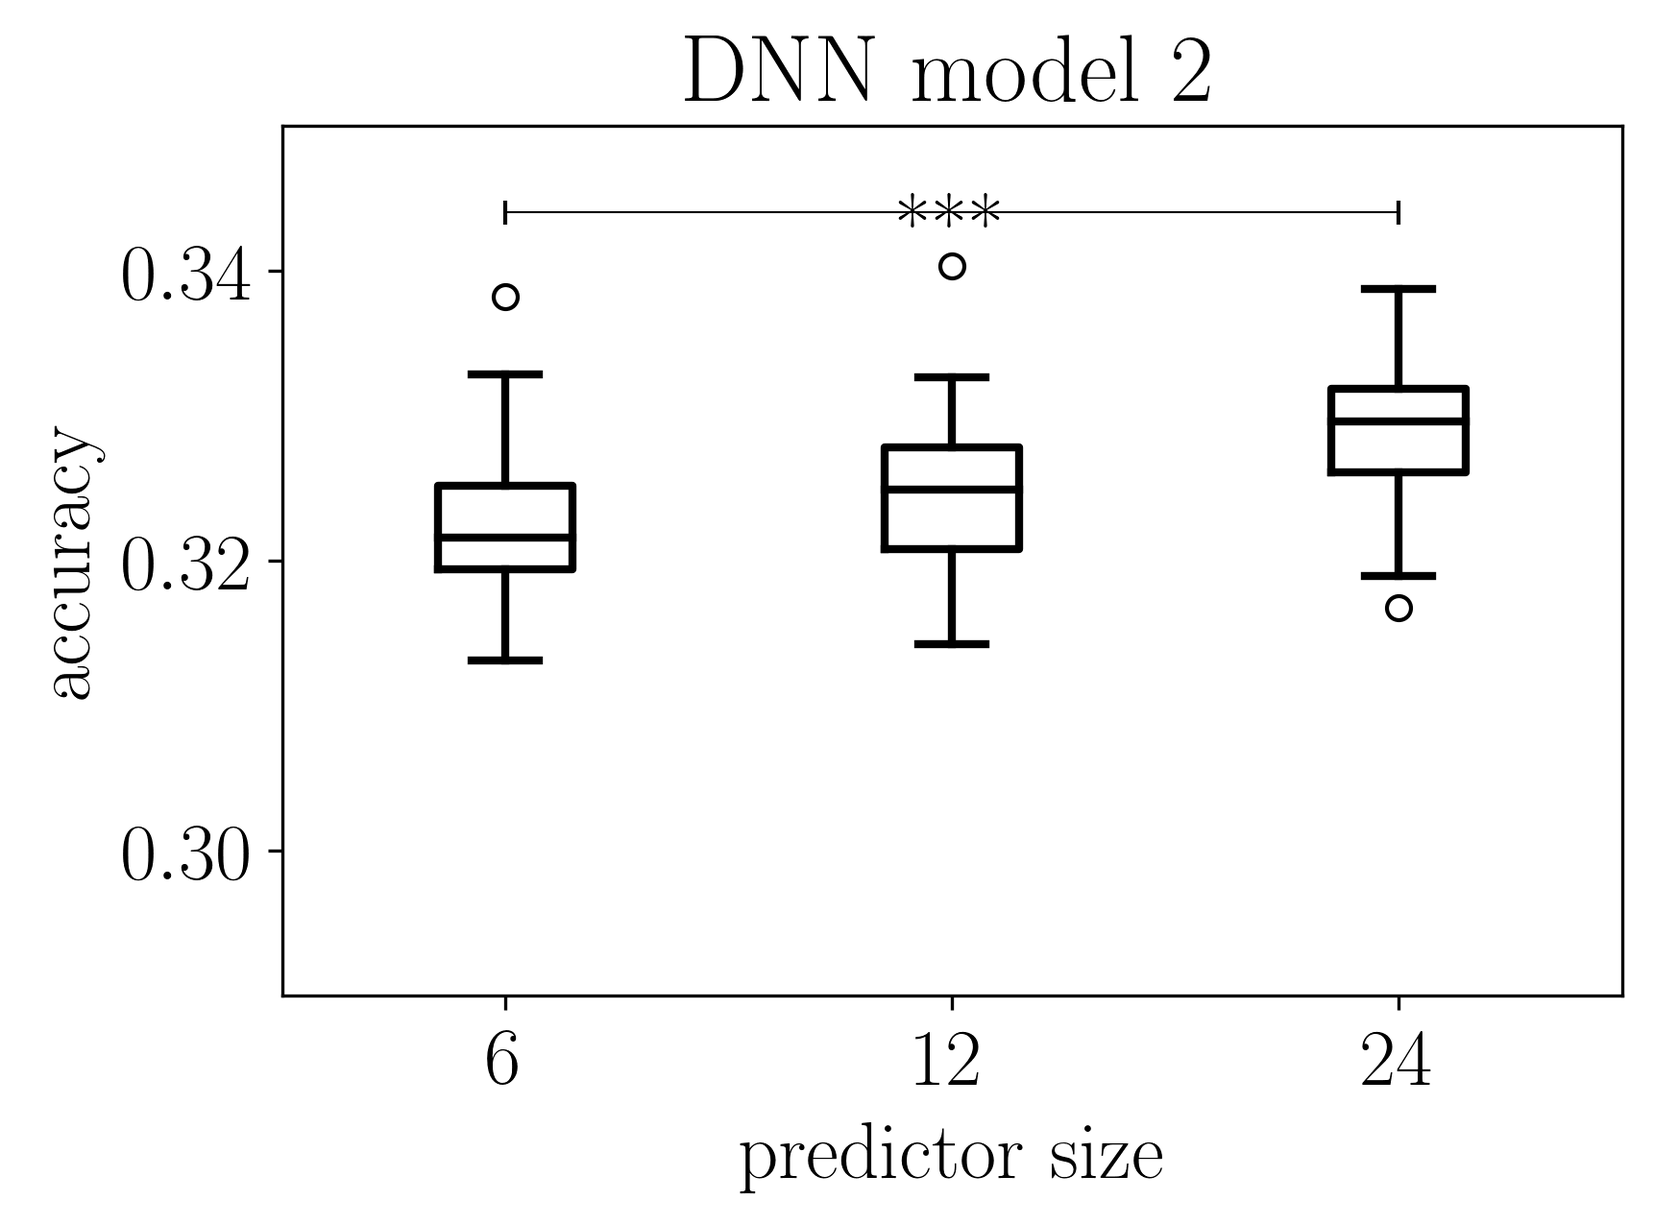
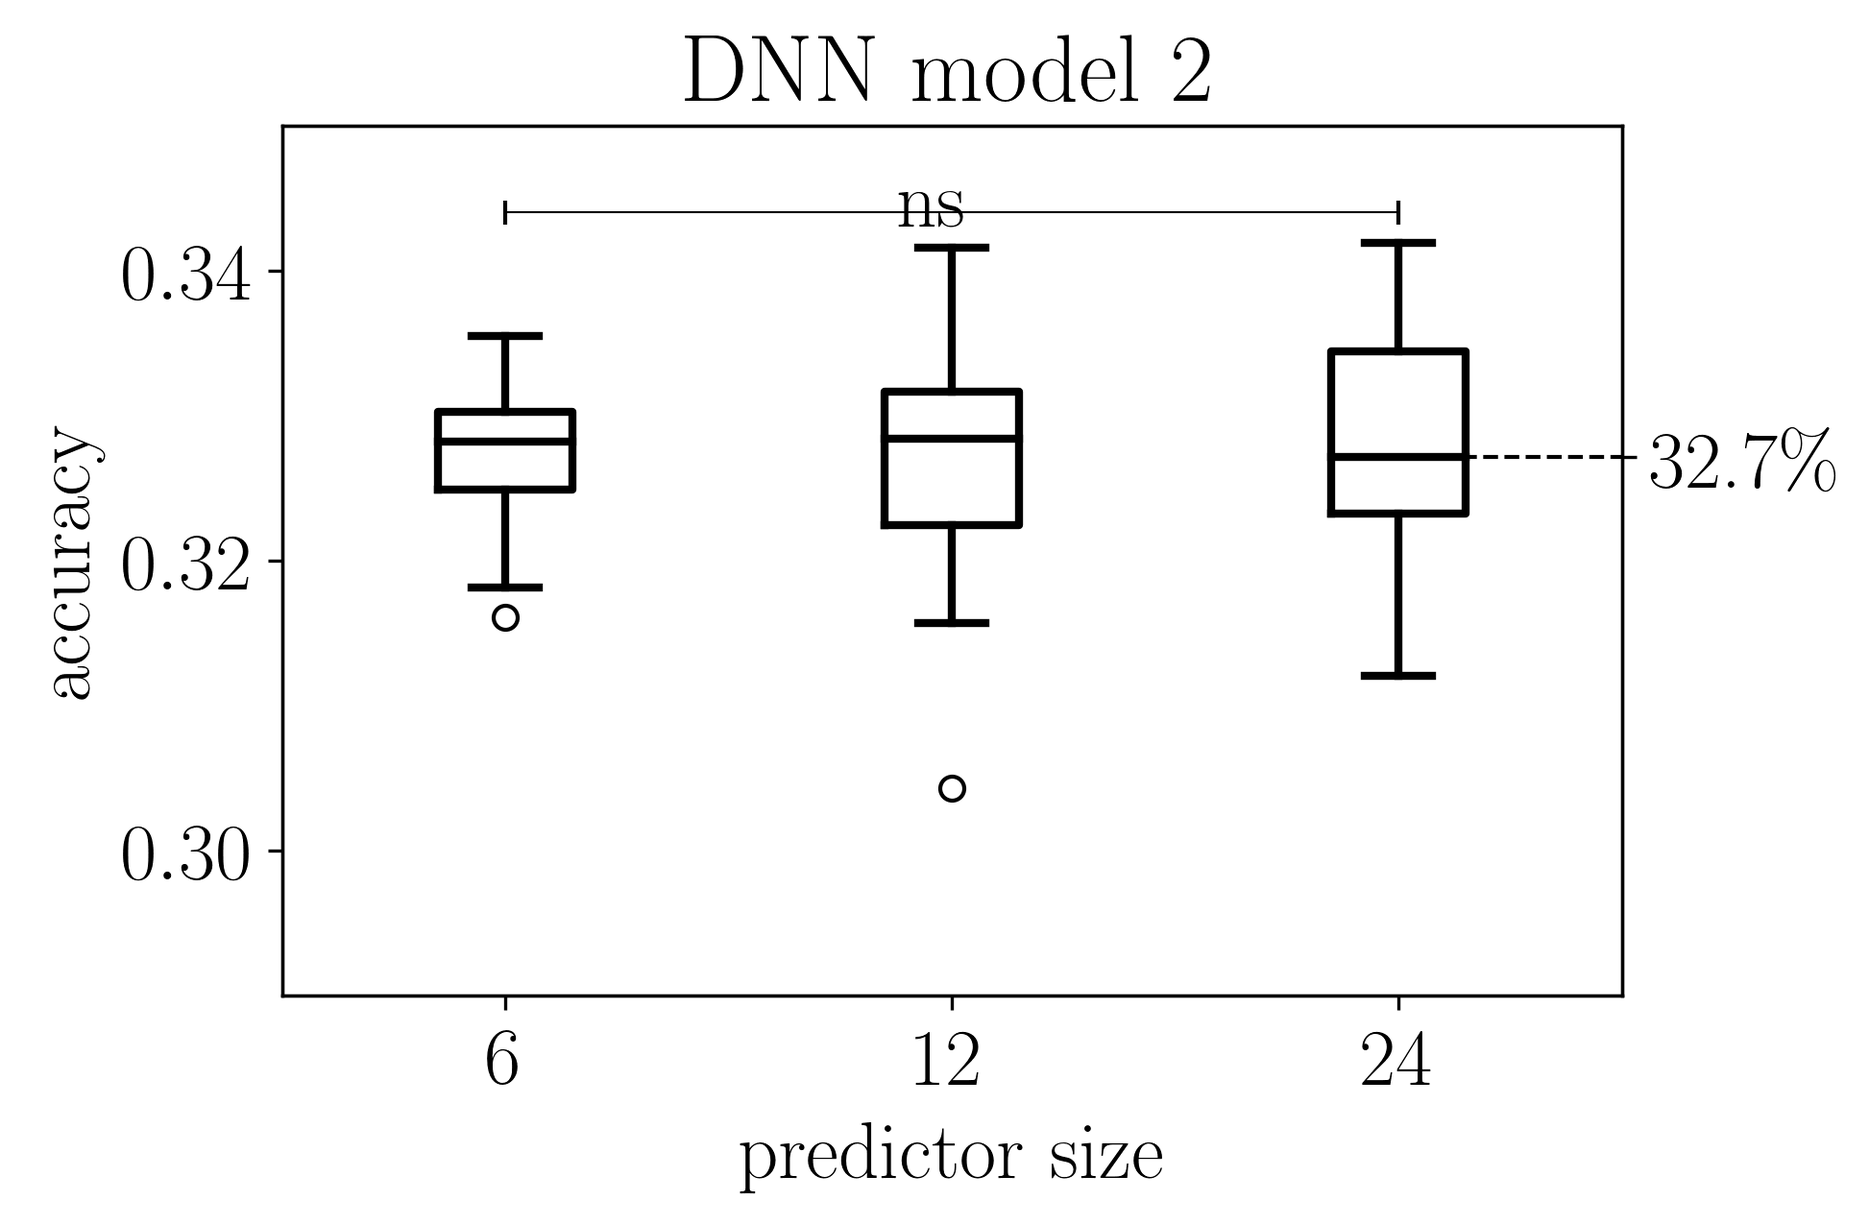
...

diff --git a/results.tex b/results.tex
@@ -1,5 +1,5 @@
 \section{Результаты}
-\newcommand{\mannwhitni}{{\footnotesize Значимость отличия выборок по критерию Манна-Уитни: ns $P>0.05$, * $P\leq 0.05$, ** $P\leq 0.01$, *** $P\leq 0.001$}}
+\newcommand{\mannwhitni}{{\scriptsize Значимость отличия выборок по критерию Манна-Уитни: ns $P>0.05$, * $P\leq 0.05$, ** $P\leq 0.01$, *** $P\leq 0.001$}}
 
 \paragraph{Базовые частотные модели} Наши предикторные данные мы обработали разными статистическими методами для получения точностей для сравнения. Были использованы простейшие модели -- частотные, Марковские модели от 1 до 11 порядка. Число параметров марковской модели 11 порядка приближается к числу нуклеотидов в геноме \emph{E.coli}.
 
@@ -22,18 +22,29 @@
  
  \paragraph{Сравнение полносвязных моделей.} Мы сравнили между собой полносвязные модели -- с одним (DNN model 1) и двумя слоями (DNN model 2)  на двух типах данных -- предсказание по предикторной области 12 и 24 (рисунок \ref{fig:dnn_test}). Статистически значимой разницы между моделями не наблюдалось.
  
- Полносвязные модели по построению не могут должным образом использовать информацию о близком расположении и последовательности нуклеотидов. В таких моделях предсказание, большей степени, основывается на нуклеотидном составе предикторной области.
+ Полносвязные модели по построению не могут должным образом использовать информацию о расположении и последовательности нуклеотидов, так как входниые переменные -- нуклеотиды -- независимы для сети. В таких моделях предсказание, в большей степени, основывается на нуклеотидном составе предикторной области.
  
 \input{tables/dnn_comparison}
 
 
-\paragraph{Сравнение сверточных моделей.} Мы исследовали несколько вариантов конфигурации сверточного слоя. Результаты тестов приведены на рисунке \ref{fig:cnn_test}.
+\paragraph{Сверточные модели.} Сверточные модели были протестированы на пресказание по левой предикторной области. Мы исследовали зависимость предсказания от конфигурации сверточного слоя в простейшей модели. Результаты тестов приведены на рисунке \ref{fig:cnn_test}.
+
+Увеличение размера сверточного фильтра с 3 до 6 не дает значительного прироста точности. При этом увеличение количества фильтров дает значительное увеличение точности, так как позволяет распознавать больше паттернов в последовательности \ref{fig:cnn_test1}.
+
+ВЫВОД ПРО ИСПОЛЬЗОВАНИЕ STRIDE	
+
+Также на простейших сверточных моделях мы сравнили, выше ли точность при обучении и предсказании с использованием только кодирующих контекстов, то есть выбранных из кодирующих частей генома. Использование кодирующих контекстов дало значительный, но небольшой прирост в точности для всех проверенных моделей \ref{fig:cnn_test2}. 
 
 \input{tables/cnn_comparison}
 
 
 \paragraph{Рекурретные модели.}
-\begin{figure}[h] % picture
+Мы протестировали рекуррентные модели, состоящие из одного LSTM слоя с разным числом скрытых состояний и одного решающего полносвязного слоя.
+С увеличением числа скрытых слоев точность предсказания растет \ref{fig:rnn_test}.
+
+Однако обучение рекуррентных моделей не поддается вычислительному распараллеливанию, что делает такие задачи очень долгоими для вычиления. время обучения простейшей рекуррентной модели в разы превышает время обучения сверточной модели.  
+
+\begin{figure}[H] % picture
 	\centering
 	\includegraphics[width = 0.6\textwidth]{pics/rnn_models_all_runs_p1_ecoli_100000_10000_50_0.png}
 	\caption{{\bfseries Сравнение рекуррентных моделей.} \\* 
@@ -41,4 +52,12 @@
 	\label{fig:rnn_test}	
 \end{figure}
 
+\paragraph{Использование двустроннего контекста.} Для более эффективного предсказания мы протестировали архитектуры сверточных нейронных сетей, которые учитывают контекст с двух сторон от нуклеотида. 
+
+\begin{figure}[H] % picture
+	\centering
+	\includegraphics[width = 0.6\textwidth]{pics/cnn_models_two_sided.png}
+	\caption{{\bfseries} Сравнение сверточных моделей при использовании контекста с двух сторон.\\* }
+	\label{fig:cnn_twosided}	
+\end{figure}
 	

diff --git a/introduction.tex b/introduction.tex
@@ -12,7 +12,7 @@
 Взрыву использования нейронных сетей и глубокого обучения способствовал стремительный рост количества данных, появление новых алгоритмов расчетов и существенное увеличение вычислительных мощностей, особенно с использованием графических процессоров (GPU).
 За последние 7 лет использование нейросетей привело к прорывам в областях компьютерного зрения \cite{krizhevsky_imagenet_2012, girshick_region-based_2016, long_fully_2015}, распознавании речи \cite{hannun_deep_2014}, машинного перевода и распознавания естественного языка \cite{wu_googles_2016}.
 
-Первые пионерские исследования в области геномики с применением глубокого обучения были проведены недавно. DeepBind позволяет распознавать особенности последовательностей ДНК, связывающих белки и РНК \cite{alipanahi_predicting_2015}. DeepSEA может выучивать регуляторный код  прямо из последовательности ДНК и данных хроматинового профайлинга \cite{zhou_predicting_2015}. 
+Первые пионерские исследования в области геномики с применением глубокого обучения были проведены недавно -- буквально 4 года назад. DeepBind позволяет распознавать особенности последовательностей ДНК, связывающих белки и РНК \cite{alipanahi_predicting_2015}. DeepSEA может выучивать регуляторный код  прямо из последовательности ДНК и данных хроматинового профайлинга \cite{zhou_predicting_2015}. 
 
 С этого момента число применений глубокого обучения в биологических задачах растет очень быстро. Даже если рассматривать подходы, связанные с извлечением информации из последовательности, (еще примеры).
 

diff --git a/methods.tex b/methods.tex
@@ -21,10 +21,10 @@
 
 \subsection{Нейронные сети}
 
-В качестве функции активации использовалась функция softmax и relu (уравнение \ref{eq:softmax}).
+В качестве функции активации использовалась функция softmax и ReLU (уравнение \ref{eq:softmax}).
 \begin{align} \label{eq:softmax}
 \text{softmax}(X) &= exp(X - \max_{axis}(X)) \\
-\text{relu}(X) &= \max_{x_i \in X}(x_i, 0)
+\text{ReLU}(X) &= \max_{x_i \in X}(x_i, 0)
 \end{align}
 
 
@@ -38,6 +38,7 @@
 
 Для статистического сравнения точности сетей на наборе датасетов использовался критерий Манна-Уитни.
 
+В архитектурах нейронный сетей использовалось несколько типов слоев.
 \paragraph{Полносвязный слой}
 Каждый из k нейронов в полносвязном слое вычисляет сумму результатов поэлементного произведения вектора входных значений на вектор весов, что можно записать как:
 \begin{equation}
@@ -61,7 +62,7 @@
 
 {\bfseries Полносвязные модели} (DNN model 1 - рисунок \ref{fig:dnn_1_scheme}). Первая простейшая полносвязная модель состоит из входного слоя, принимающего нуклеотидный контекст, слоя, уплощающего данные в один вектор, четырех полносвязных нейронов с функцией активации softmax, выходом которых являются вероятности для четырех выходных букв. Число параметров модели $16n + 4$, где $n$ -- размер контекста.
 
-(DNN model 2 -- рисунок \ref{fig:dnn_2_scheme}). В полносвязную модель добавлен второй слой нейронов. Число параметров модели $16n + 24$, где $n$ -- размер контекста.
+(DNN model 2 -- рисунок \ref{fig:dnn_2_scheme}). В полносвязную модель добавлен слой нейронов с активацией ReLU. Число параметров модели $16n + 24$, где $n$ -- размер контекста.
 
 
 {\bfseries Сверточные модели} (CNN model 1 - рисунок \ref{fig:cnn_schemes}).

diff --git a/literature.tex b/literature.tex
@@ -1,7 +1,6 @@
 \section{Литература}
 \subsection{Нейронные сети}
-Нейронная сеть представляет из себя последовательность слоев, которые трансформируют данные. Каждый слой состоит из нескольких вычислительных узлов определенного типа, называемых нейронами. Было использовано несколько типов слоев нейронной сети.
-Выход каждого нейрона также преобразуется функцией активации.
+Нейронная сеть представляет из себя последовательность слоев, которые трансформируют данные. Каждый слой состоит из нескольких вычислительных узлов определенного типа, называемых нейронами. Слои бывают разных типов, три базовых  -- полносвязные, сверточные, рекуррентыные. Выход каждого нейрона также преобразуется функцией активации.
 
 Каждый нейрон хранит в себе веса, которые определяют непосредственно преобразование данных. Веса инициализируются случайно.
 В обучении функция потерь, которая является мерой схожести предсказания сети и правильного ответа, минимизируется на обучающей выборке, которая содержит правильные предсказания (обучение с учителем). Минимизация происходит путем изменения весов в нейронах в процессе обратного распространения ошибки.

diff --git a/tables/dnn_comparison.tex b/tables/dnn_comparison.tex
@@ -1,4 +1,4 @@
-\begin{figure}[h] % picture
+\begin{figure}[H] % picture
 	\centering
 	\includegraphics[width = 0.6\textwidth]{pics/dnn_models_all_runs_p1_ecoli_100000_10000_12_0.png}
 	\caption{{\bfseries Сравнение полносвязных моделей.} \\* 
